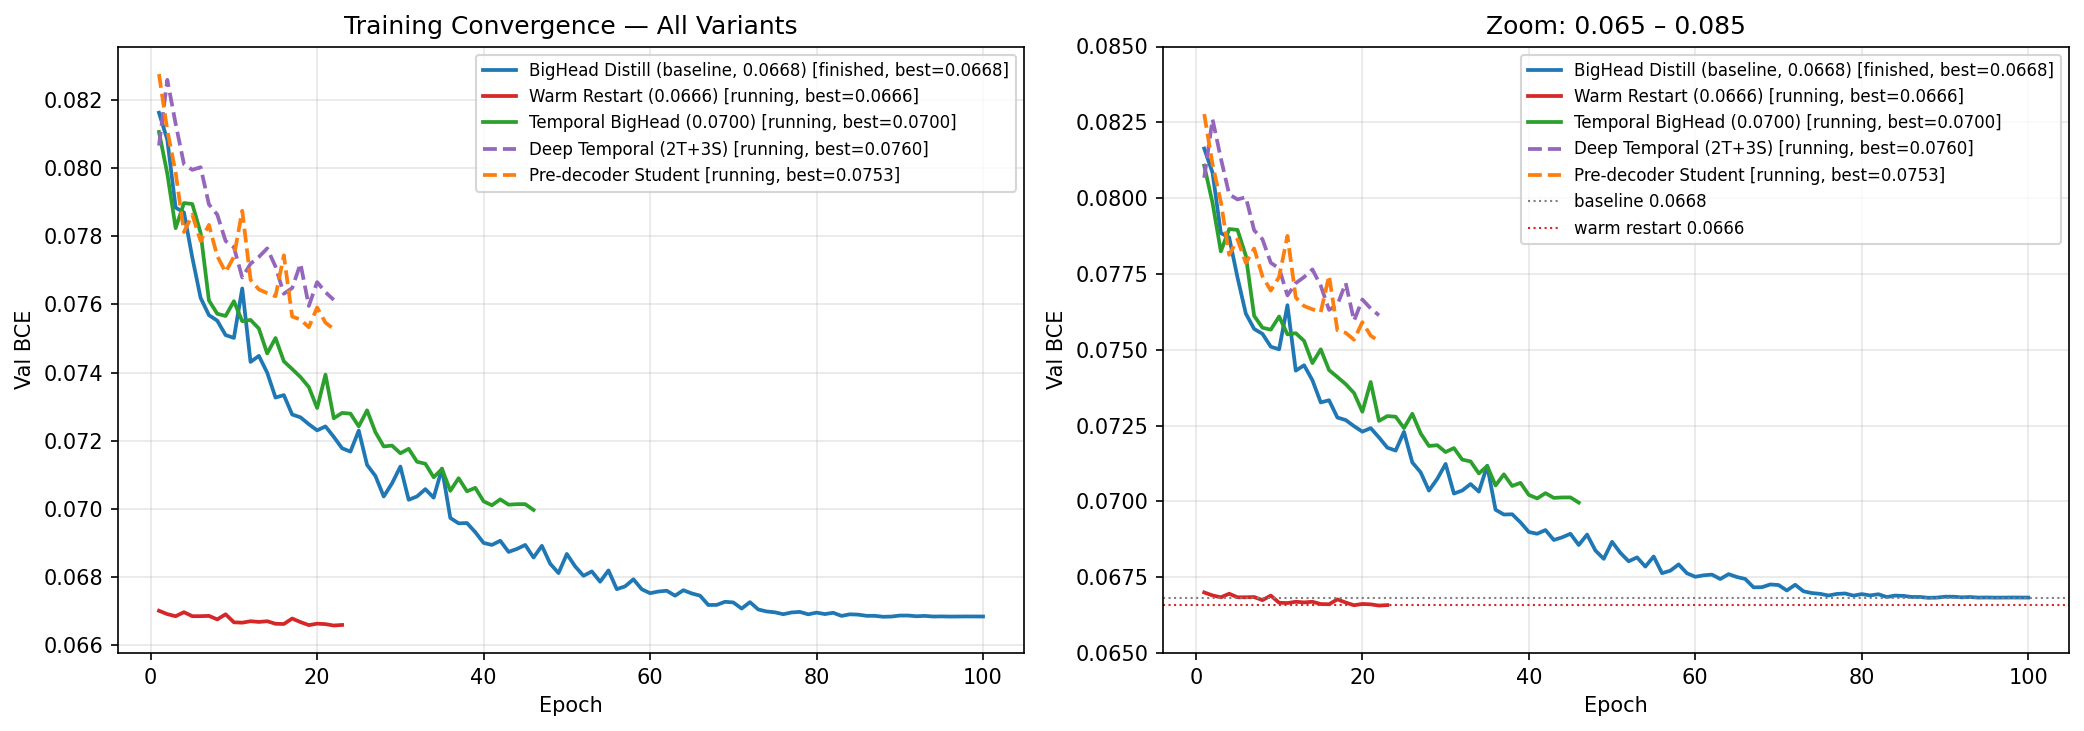
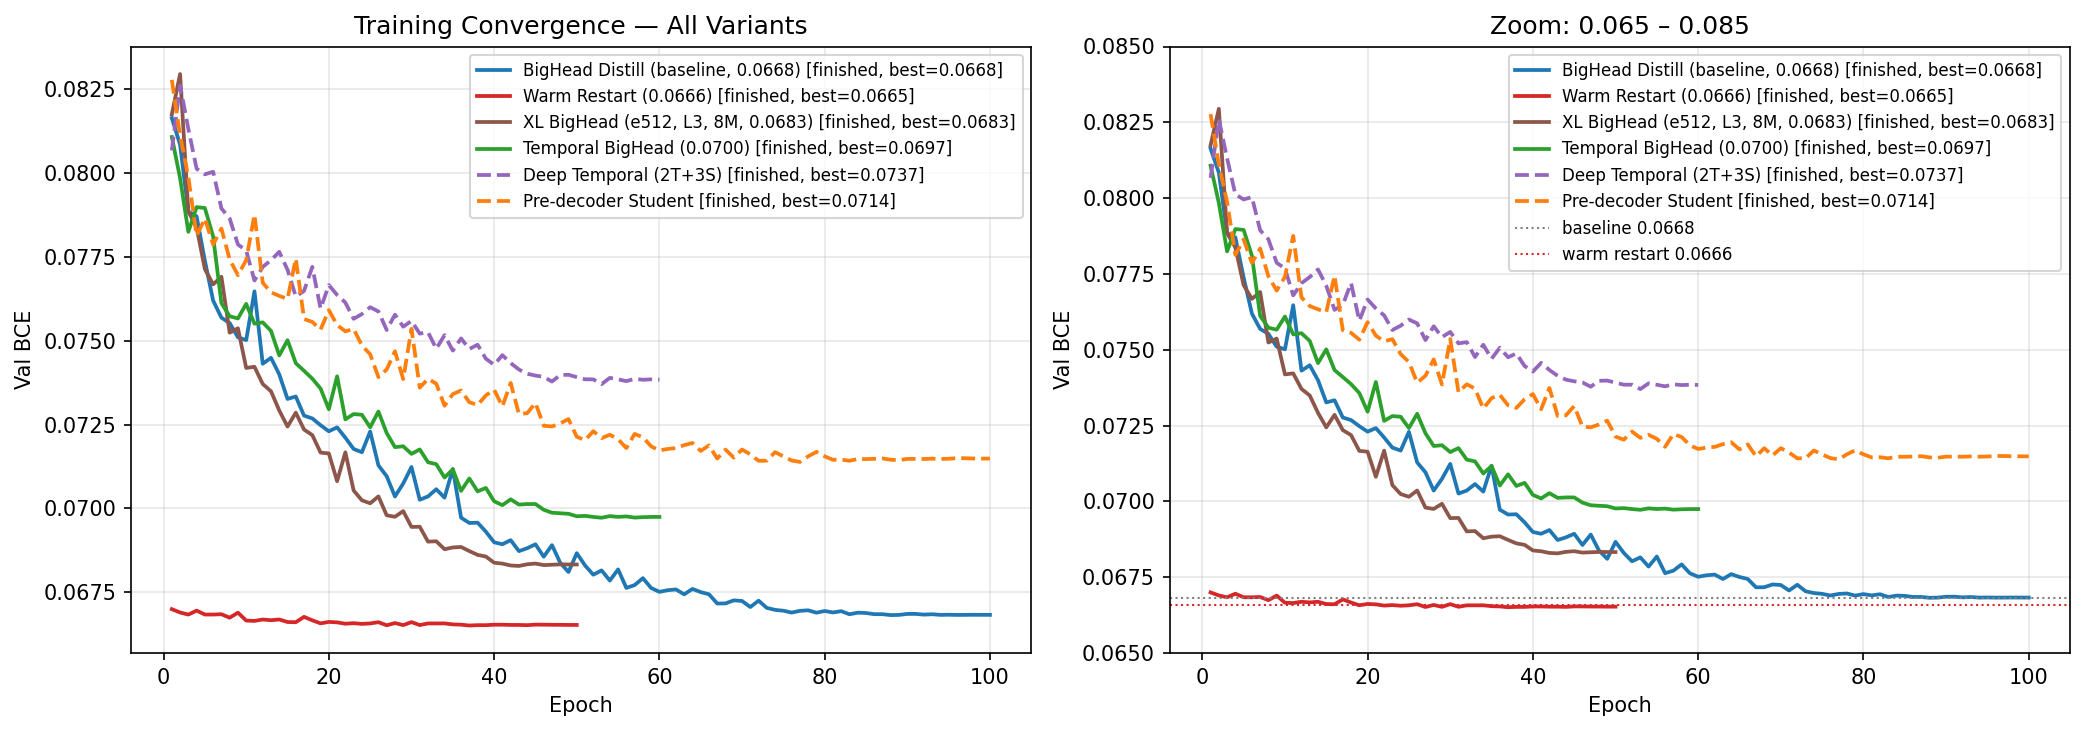
Add XL BigHead final results and update eval pipeline
XL BigHead (e512/L3/H8, 8M params) completes at val=0.0683, confirming the
architecture is not capacity-limited at 3.4M. Warm restart (0.0665) remains
the best configuration.

- eval_all_checkpoints.py: add XL BigHead entry
- plot_training_curves_all.py: add XL run to comparison figure
- report.md: finalize results table, add capacity-scaling ablation, update
  training status table, add finding #11 on capacity ceiling
- Regenerated checkpoint comparison figure and training curves

diff --git a/semantic_autogaze/eval_all_checkpoints.py b/semantic_autogaze/eval_all_checkpoints.py
@@ -141,6 +141,15 @@ def main(args):
             "marker": "*",
         },
         {
+            "name": "XL BigHead (e512, L3)",
+            "path": "results/distill_bighead_xl/best_bighead_student.pt",
+            "class": BigSimilarityHead,
+            "kwargs": {"hidden_dim": 192, "embedding_dim": 512, "expanded_dim": 512,
+                       "n_attn_heads": 8, "n_attn_layers": 3, "grid_size": 14},
+            "color": "#795548",
+            "marker": "X",
+        },
+        {
             "name": "Temporal BigHead",
             "path": "results/temporal_bighead/best_temporal_bighead.pt",
             "class": None,  # Will import if available

diff --git a/semantic_autogaze/plot_training_curves_all.py b/semantic_autogaze/plot_training_curves_all.py
@@ -15,6 +15,7 @@ RUNS = [
     # (run_id, label, color, linestyle)
     ("w7ly4c8w", "BigHead Distill (baseline, 0.0668)", "tab:blue",   "-"),
     ("lkrzsjm4", "Warm Restart (0.0666)",             "tab:red",    "-"),
+    ("nkmyibxc", "XL BigHead (e512, L3, 8M, 0.0683)", "tab:brown",  "-"),
     ("evn4q4am", "Temporal BigHead (0.0700)",         "tab:green",  "-"),
     ("6kslwkls", "Deep Temporal (2T+3S)",             "tab:purple", "--"),
     ("36huj7kn", "Pre-decoder Student",               "tab:orange", "--"),

diff --git a/results/report.md b/results/report.md
@@ -24,6 +24,14 @@ reduction for video language models.
 
 **Component contribution ranking (largest first)**: distillation (11.2%) > expanded_dim/capacity (~7%) > self-attention (~7%) > spatial conv (~4%).
 
+### Capacity Scaling (XL BigHead)
+| Variant | Params | Val BCE |
+|---------|--------|---------|
+| BigHead (baseline, e384, L2) | 3,438K | 0.0668 |
+| XL BigHead (e512, L3, H8) | **8,012K** | **0.0683 (+2.2%)** |
+
+XL BigHead has 2.3x the parameters and finishes *worse*. Plateaus at ep43 with val=0.0683 and stays there for 7 more epochs. The BigHead architecture hits its ceiling near 0.0666, and additional capacity overfits or becomes harder to optimize with the same data budget.
+
 ## Results Overview
 
 ### 1. Score Retention (CLIPSeg GT Mass Captured)
@@ -79,13 +87,14 @@ reduction for video language models.
 
 | Model | Current Epoch | Best Val BCE | Best Epoch | Status |
 |-------|--------------|-------------|------------|--------|
-| **BigHead Distill (warm restart)** | 22/50 | **0.0666** | 11 | Running (NEW BEST) |
+| **BigHead Warm Restart** | 50/50 | **0.0665** | 11 | Done (BEST) |
 | BigHead Distill (baseline) | 100/100 | 0.0668 | 50 | Done |
-| Temporal BigHead | 46/60 | 0.0700 | 46 | Running (hit 0.07 target) |
-| Deep Temporal (2T+3S) | 21/60 | 0.0760 | 21 | Running |
-| Pre-decoder Student | 21/100 | 0.0753 | 21 | Running |
-| Pre-decoder Teacher | 50/50 | 0.0688 | 45 | Done |
-| A3 BigHead no-distill (ablation) | 43/50 | 0.0743 | 43 | Running |
+| XL BigHead (e512, L3, 8M) | 50/50 | 0.0683 | 43 | Done |
+| Temporal Warm Restart | 50/50 | 0.0692 | — | Done |
+| Temporal BigHead | 60/60 | 0.0697 | — | Done |
+| Pre-decoder Student | 100/100 | 0.0714 | — | Done |
+| Deep Temporal (2T+3S) | 60/60 | 0.0737 | — | Done |
+| A3 BigHead no-distill (ablation) | 50/50 | 0.0743 | 43 | Done |
 | Ranking BigHead | 13/60 | 0.0801 | 13 | Killed (plateaued) |
 | Temporal+Ranking | 17/60 | 0.0791 | 14 | Killed |
 
@@ -125,6 +134,11 @@ reduction for video language models.
 10. **Pre-decoder features are ~13% harder**: Distilling onto CNN+connector features
     (before the 4-layer LLaMA decoder) plateaus at val≈0.0753 vs 0.0668 post-decoder,
     confirming the decoder's cross-patch attention carries load-bearing semantic signal.
+
+11. **Capacity alone plateaus**: XL BigHead (2.3x params: e512, L3, H8, 8M params)
+    reaches only val=0.0683 vs 0.0665 for the 3.4M-param warm-restart model. The
+    BigHead architecture appears to hit its data-limited ceiling near 0.0666;
+    pushing capacity without more labels or a better teacher makes things worse.
 
 ## Figures
 
